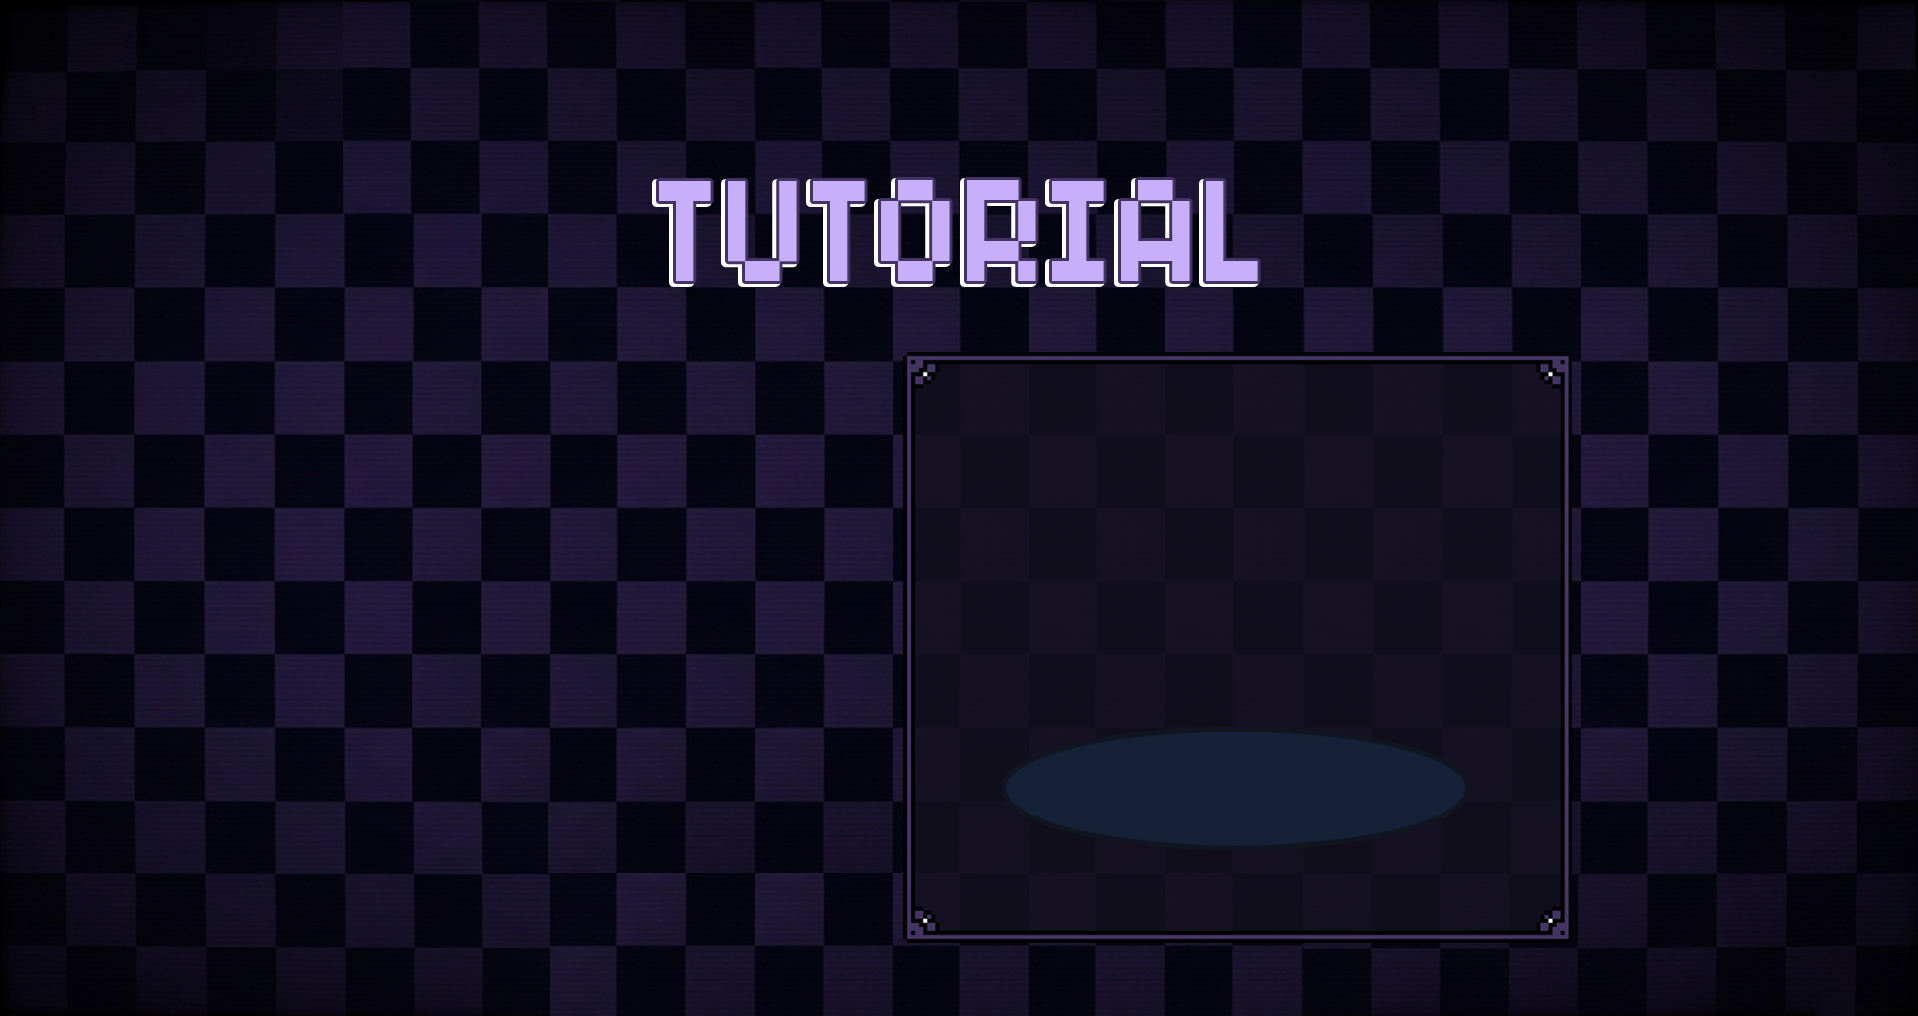
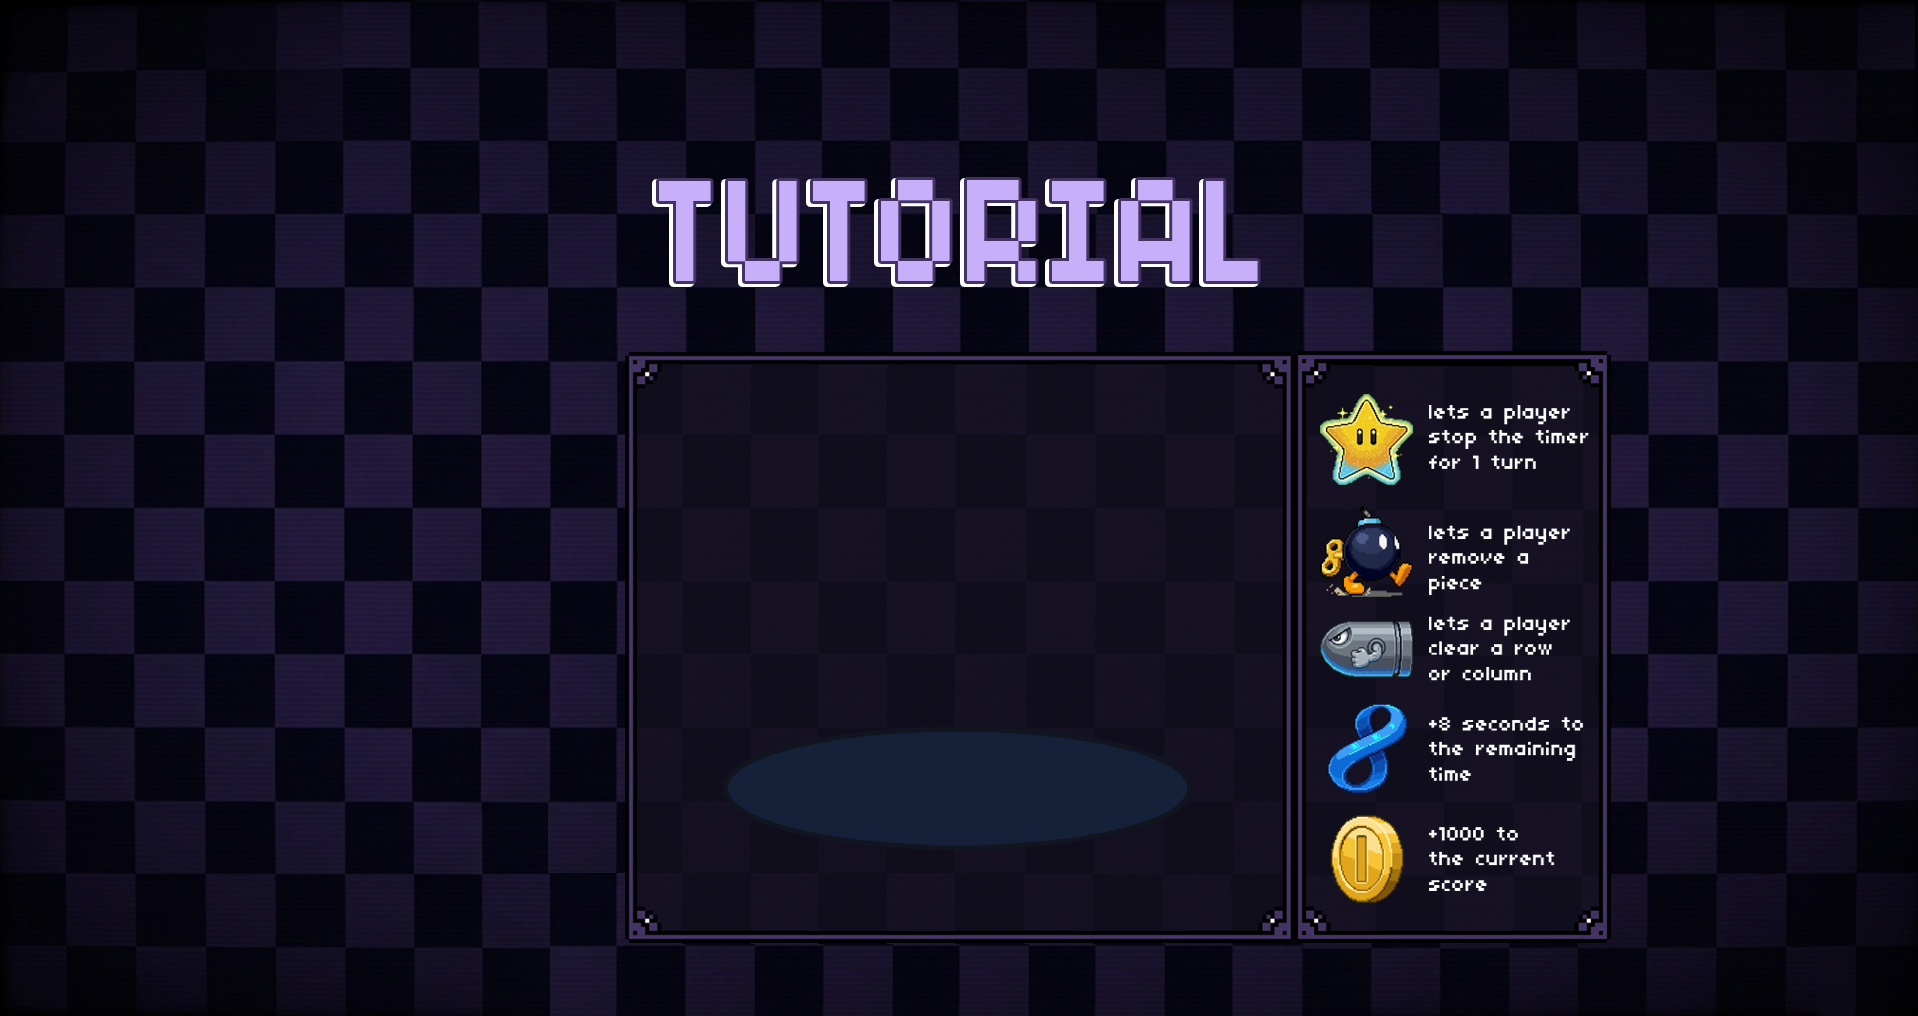
final

diff --git a/core/src/main/java/com/fourstack/game/FourStack.java b/core/src/main/java/com/fourstack/game/FourStack.java
@@ -680,8 +680,8 @@ private void createTutorialUI() {
         tutCharacters[i] = new Texture(Gdx.files.internal("tut" + (i + 1) + ".png"));
     }
     
-    tutTextBoxes = new Texture[11];
-    for (int i = 0; i < 11; i++) {
+    tutTextBoxes = new Texture[12];
+    for (int i = 0; i < 12; i++) {
         tutTextBoxes[i] = new Texture(Gdx.files.internal((i + 1) + ".png"));
     }
 
@@ -689,13 +689,13 @@ private void createTutorialUI() {
     currentCharacterImg = new Image(tutCharacters[0]);
 
     float textBoxScale = 0.5f;   
-    float textBoxX = 220f;    
+    float textBoxX = 25f;    
     float textBoxY = 380f;      
 
     float textBoxWidth = tutTextBoxes[0].getWidth() * textBoxScale;
     float textBoxHeight = tutTextBoxes[0].getHeight() * textBoxScale;
     
-    float charX = 200f;
+    float charX = 80f;
     float charY = 0f;
     float charWidth = 287f;    
     float charHeight = 400f;    
@@ -719,7 +719,7 @@ private void createTutorialUI() {
         public void clicked(InputEvent event, float x, float y) {
             tutorialStep++;
             
-            if (tutorialStep >= 11) {
+            if (tutorialStep >= 12) {
                 tutorialStep = 0; 
             }
             
@@ -1042,7 +1042,7 @@ float scale = 2.5f;
 
     if (gameState == GameState.TUTORIAL) {
         scale = 1.75f;  
-        offsetX = 657f; 
+        offsetX = 450f; 
         offsetY = 5f; 
     }
 
